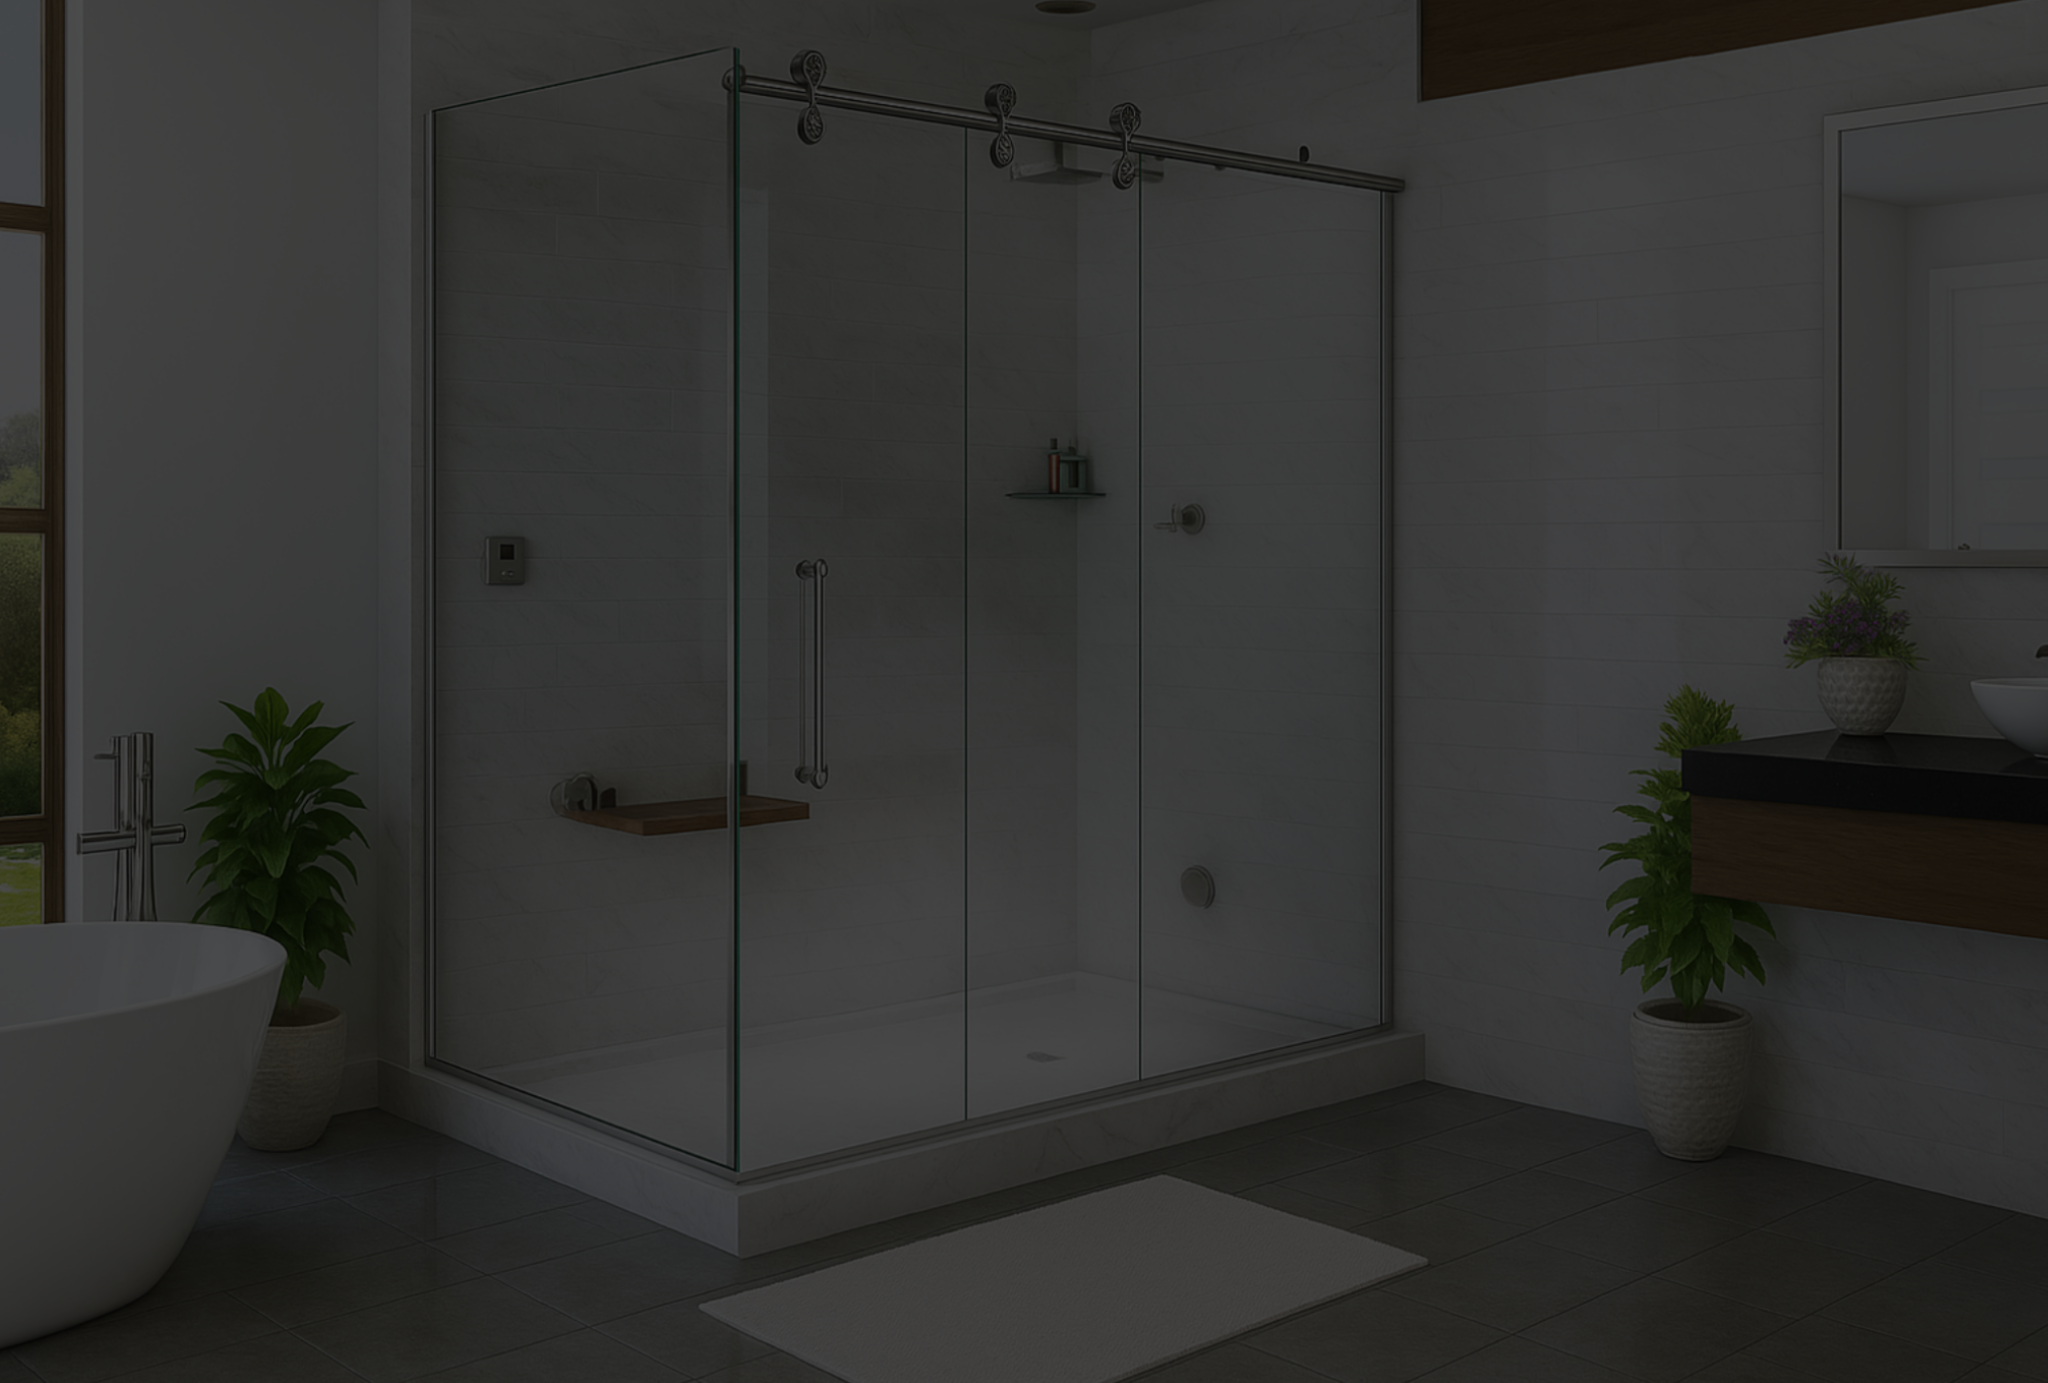
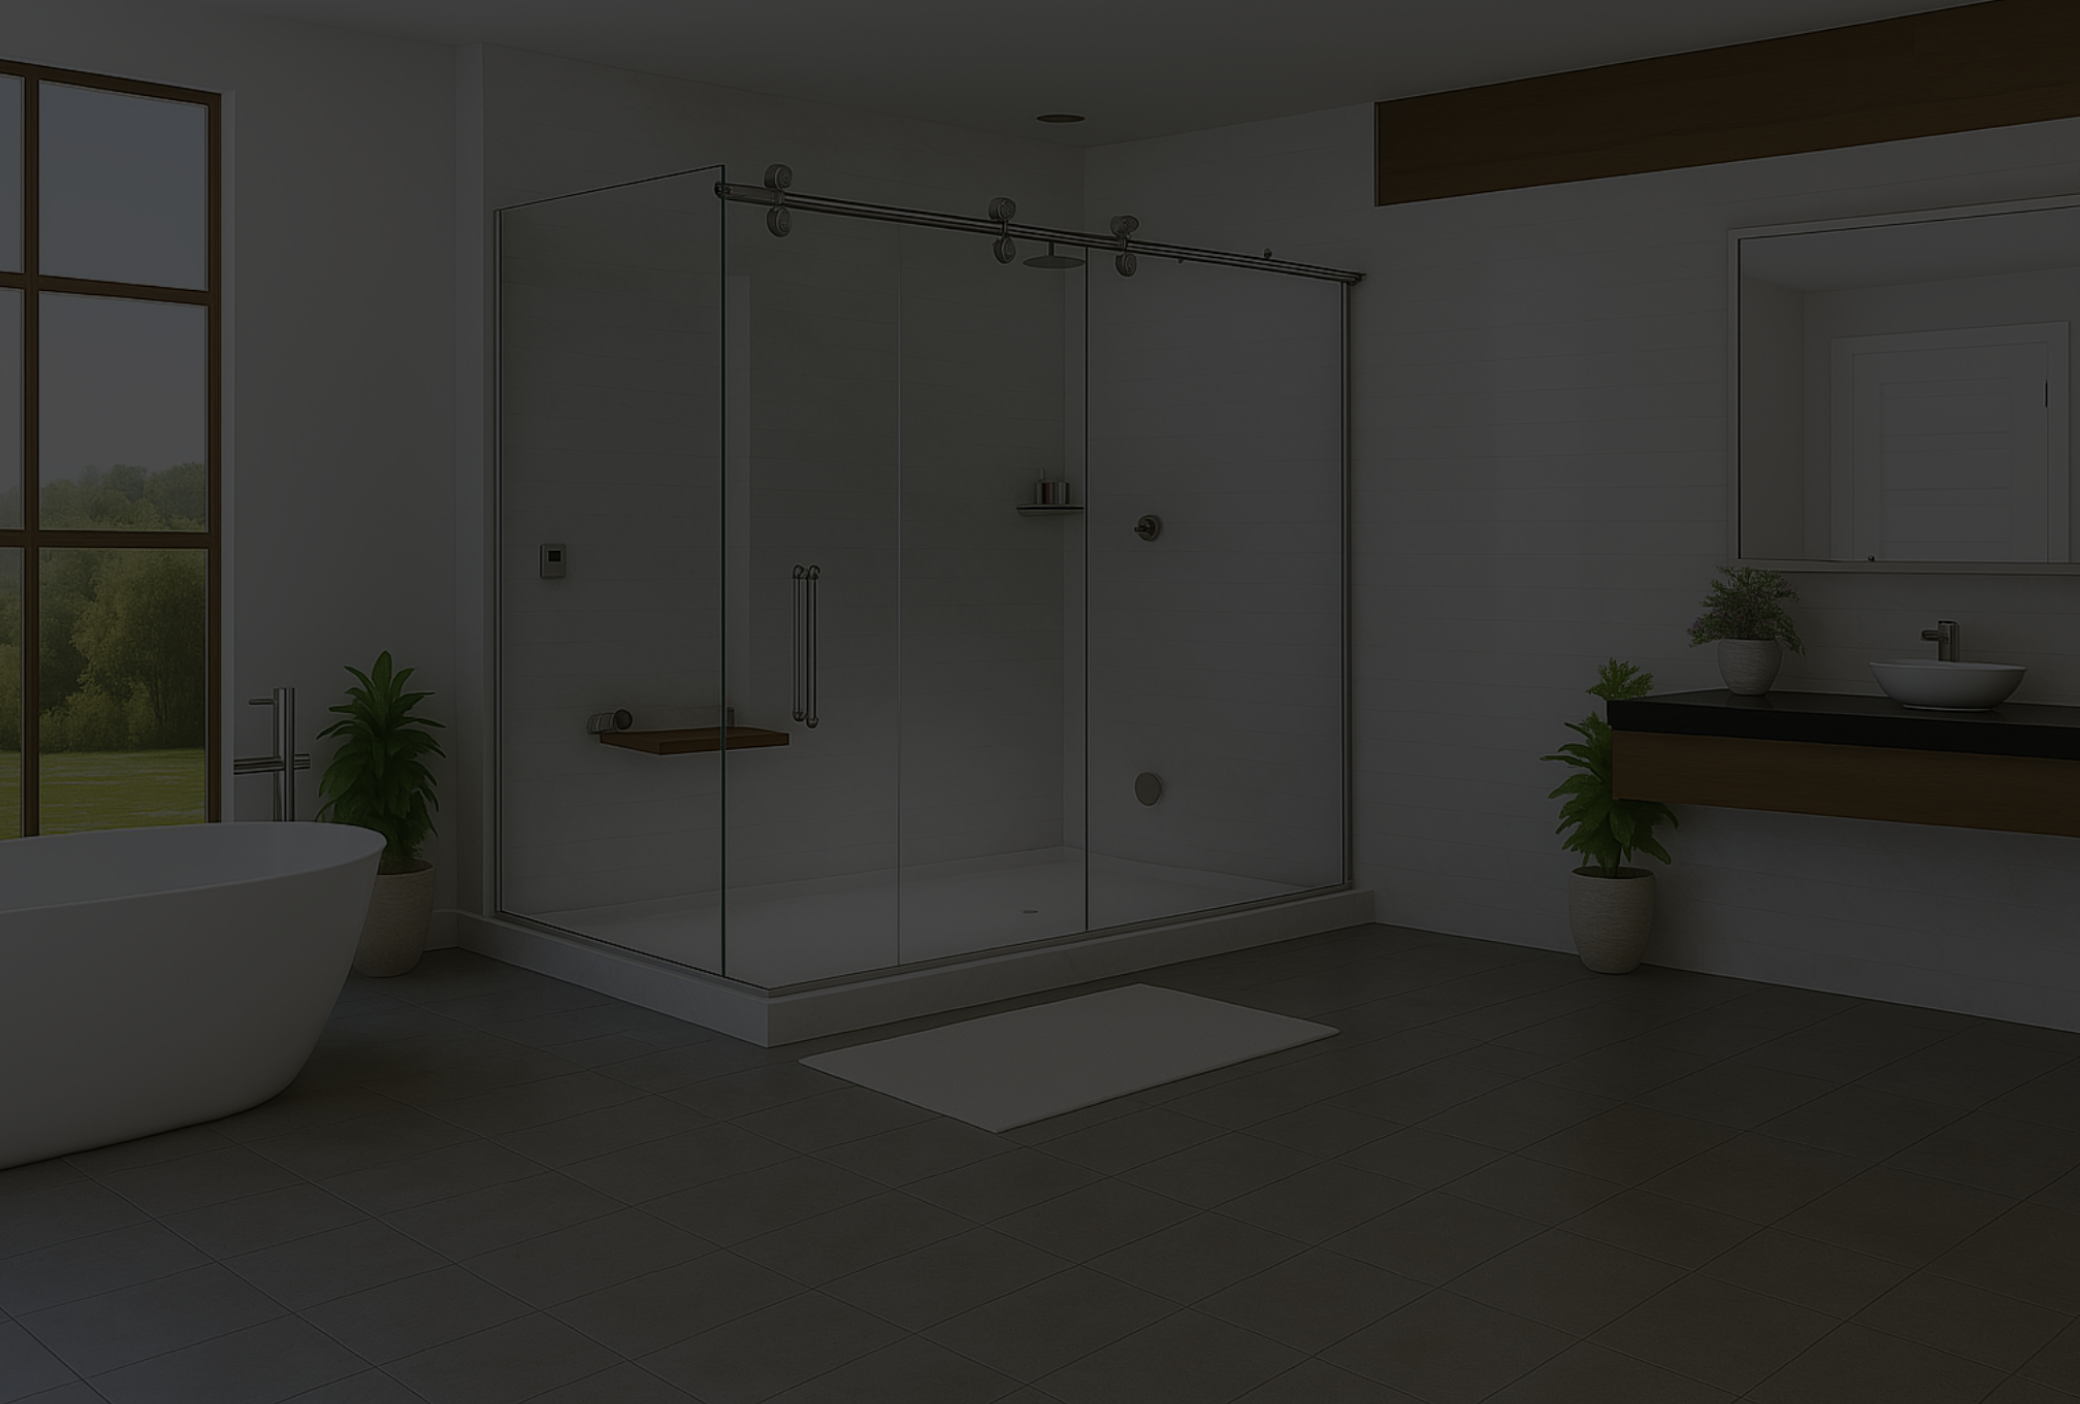
ajuste de fundo de pages

diff --git a/css/box.css b/css/box.css
@@ -659,7 +659,7 @@ footer{
         margin-top: -50px;
         height: 350px;
         background: url(../Imgs/Fundos/fundo-servicos.png) center top;
-        background-size: auto 355px, cover;
+        background-size: auto 455px, cover;
     }  
 
     /*Container da Logo e mensagem*/
@@ -858,7 +858,7 @@ footer{
         margin-top: -50px;
         height: 350px;
         background: url(../Imgs/Fundos/fundo-servicos.png) center top;
-        background-size: auto 550px, cover;
+        background-size: auto 510px, cover;
     }  
 
     /*Container da Logo e mensagem*/
@@ -1307,7 +1307,7 @@ footer{
         margin-top: -50px;
         height: 430px;
         background: url(../Imgs/Fundos/fundo-servicos.png) center top;
-        background-size: auto 700px, cover;
+        background-size: auto 680px, cover;
     }  
 
     /*Container da Logo e mensagem*/
@@ -1488,7 +1488,7 @@ footer{
         margin-top: -50px;
         height: 445px;
         background: url(../Imgs/Fundos/fundo-servicos.png) center top;
-        background-size: auto 900px, cover;
+        background-size: auto 840px, cover;
         background-repeat: no-repeat;     
     }  
     /*Container da Logo e mensagem*/
